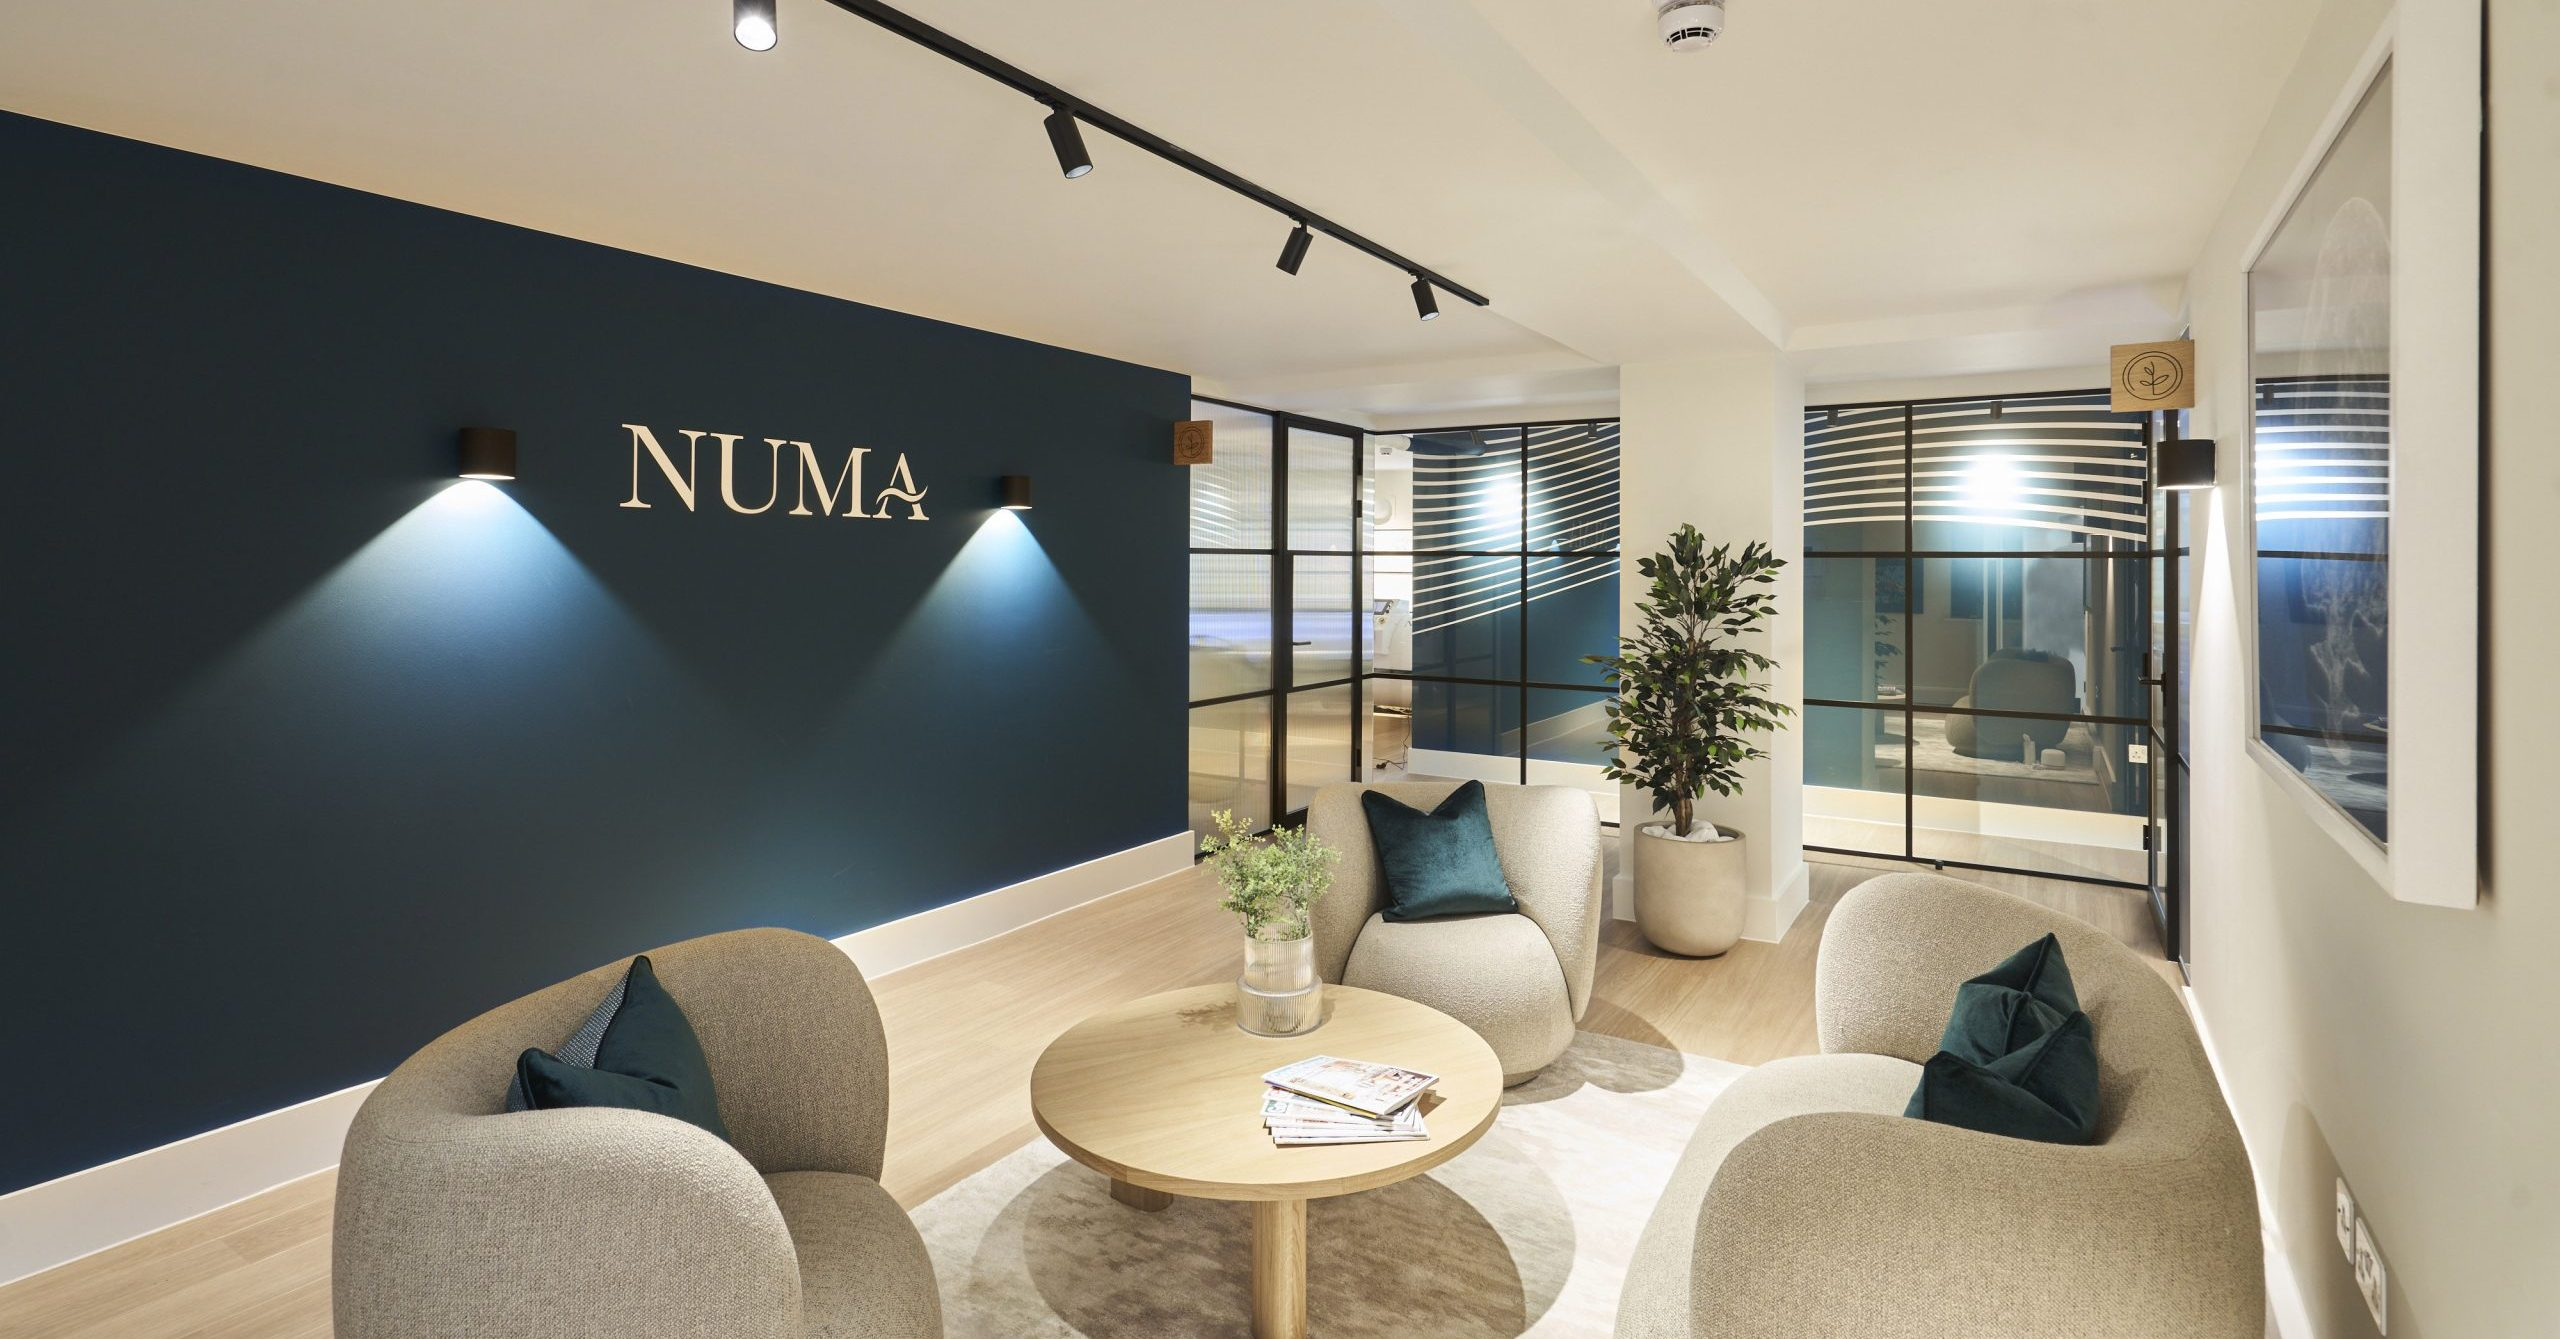
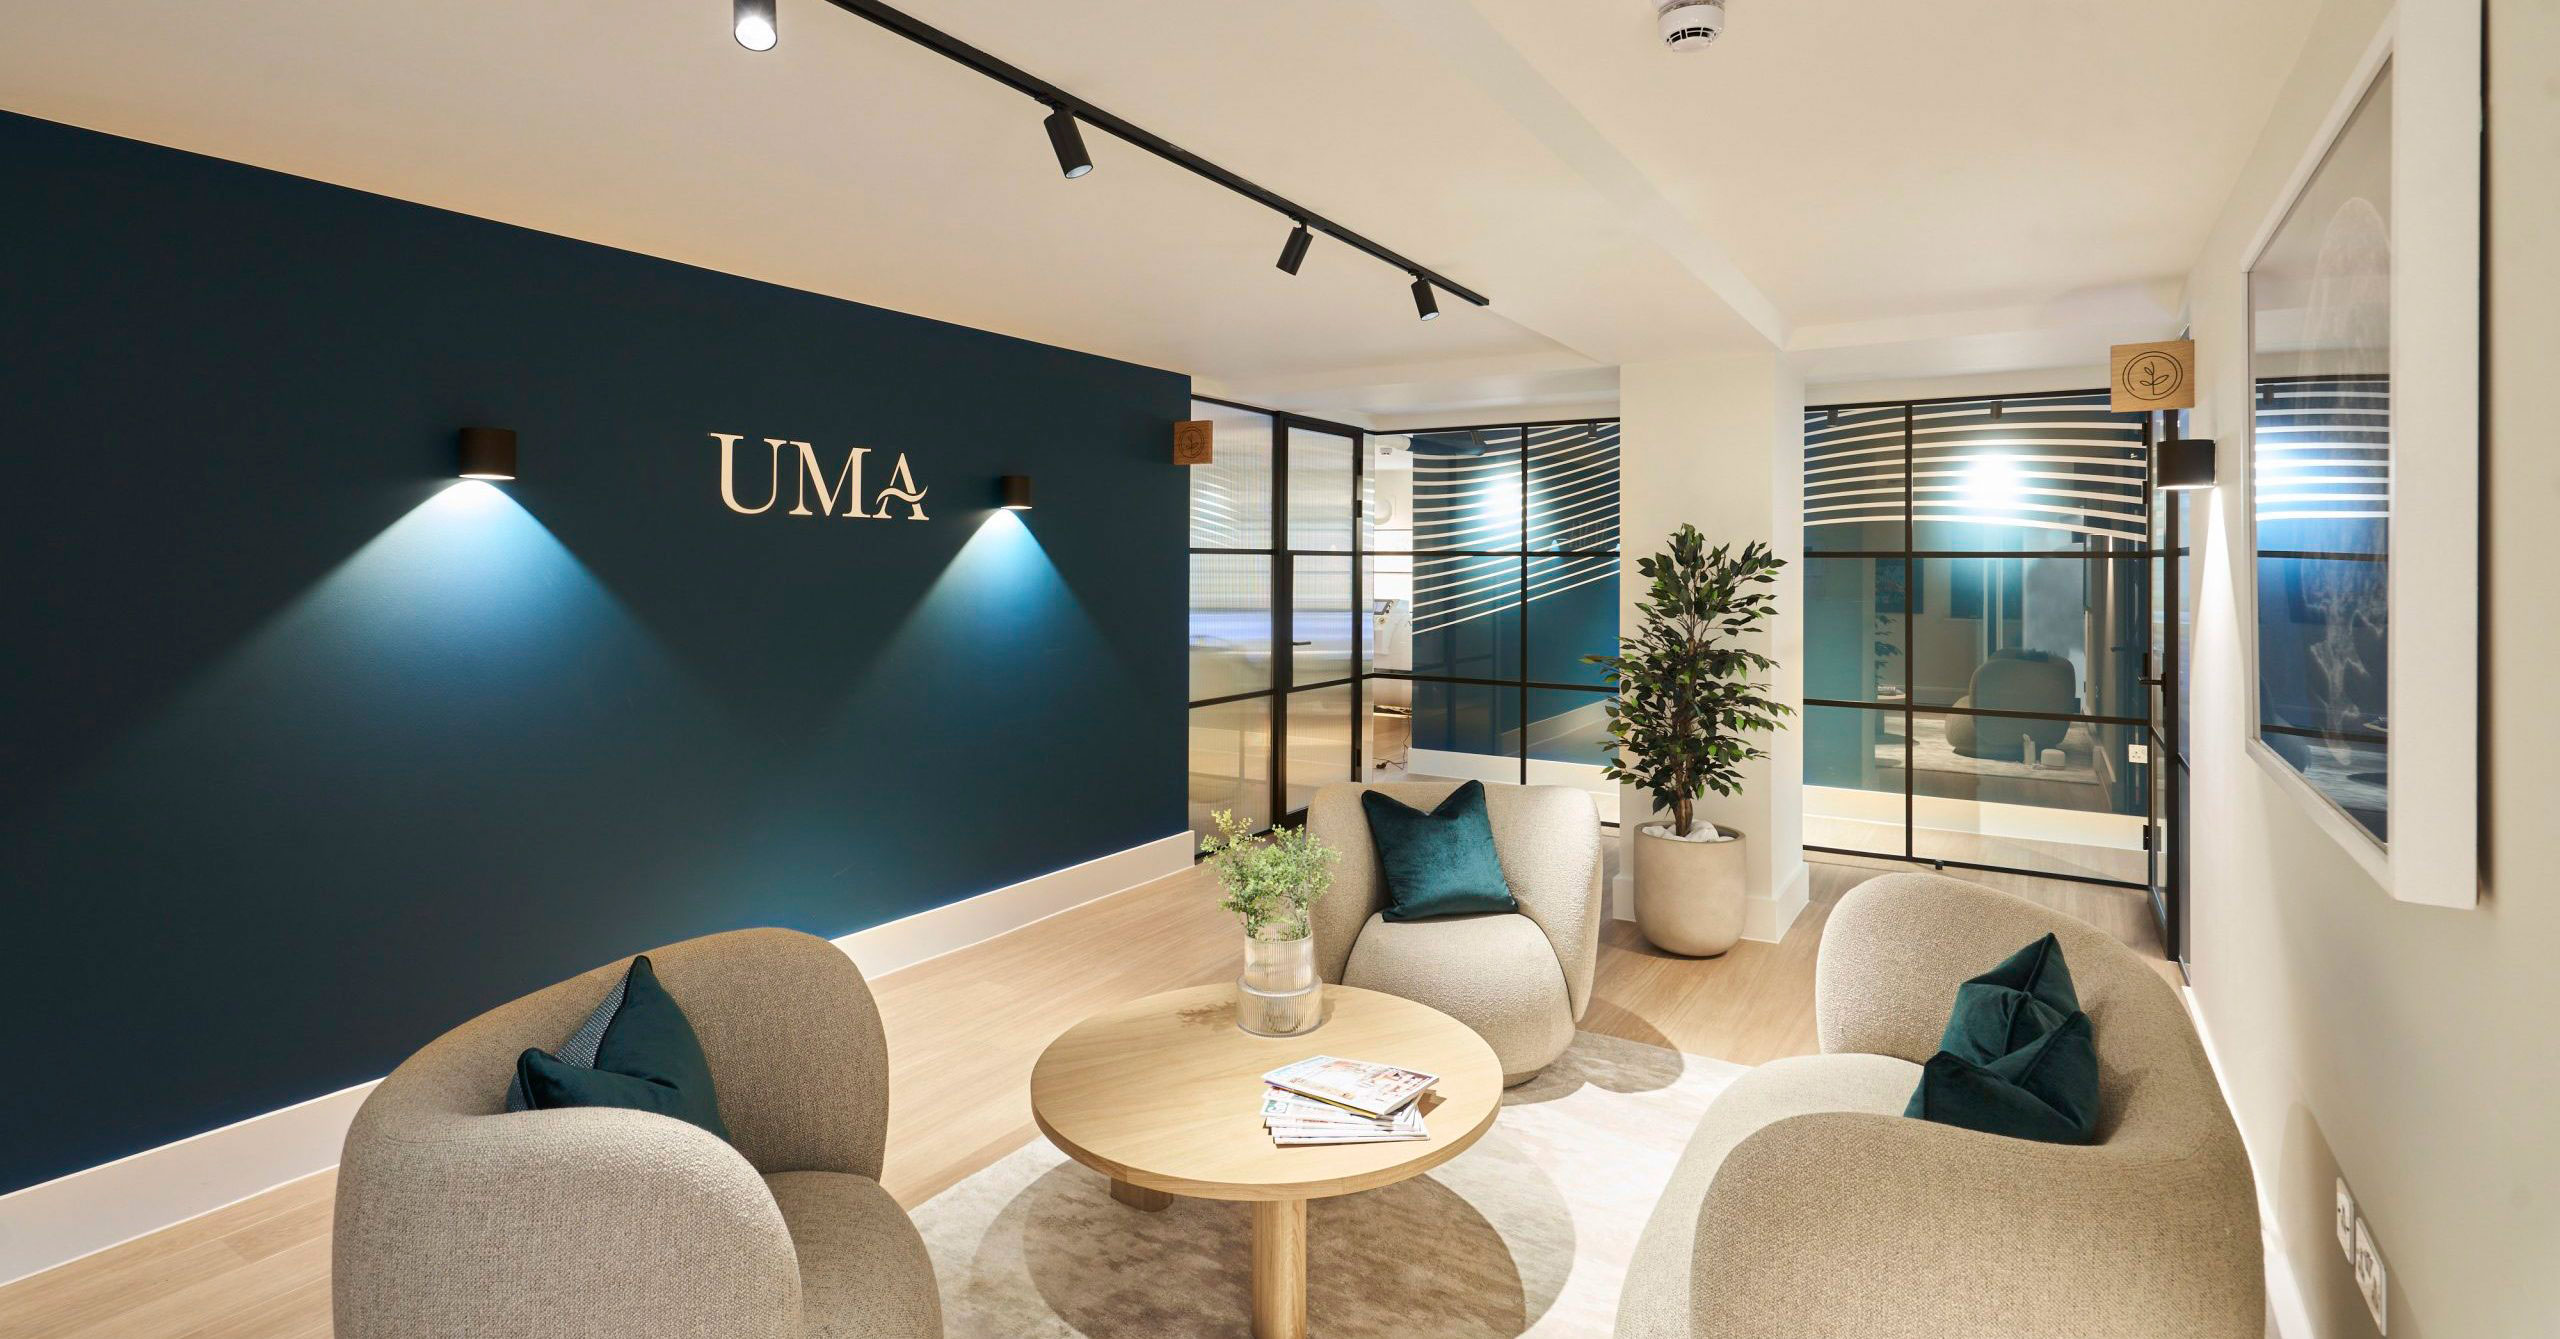
modal & Numa => Uma

diff --git a/src/data/data.ts b/src/data/data.ts
@@ -363,10 +363,11 @@ export const mockData = {
 				className: "bg-fontColor",
 				cards: [
 					{
-						className: "*:text-white",
+						className: "*:text-white !grow-2",
 						textHtml: `<div><blockquote>At UMA, we provide Hyperbaric Oxygen Therapy at the highest standards, blending integrity, honesty, and compassion into every aspect of our care. We are privileged to support your health and recovery, <strong>one breath at a time.</strong></blockquote><cite>- Dr. David Cassidy MD, Founder, UMA</cite></div>`
 					},
 					{
+						className: "grow-0",
 						textHtml: `<p>Located in the heart of London's Marylebone, UMA is a leading CQC-registered clinic specializing in Hyperbaric Oxygen Therapy. Our clinic is led by a highly qualified team using advanced hyperbaric chambers, and we take pride in offering expert-led, holistic care for each patient. Your wellbeing is our top priority.</p>`
 					}
 				]

diff --git a/tailwind.config.ts b/tailwind.config.ts
@@ -7,9 +7,13 @@ export default {
     "./src/pages/**/*.{js,ts,jsx,tsx,mdx}",
     "./src/components/**/*.{js,ts,jsx,tsx,mdx}",
     "./src/app/**/*.{js,ts,jsx,tsx,mdx}",
+    "./src/data/*.{js,ts,jsx,tsx,mdx}"
   ],
   theme: {
     extend: {
+      flexGrow: {
+        2: '2'
+      },
       colors: {
         fontColor: "var(--fontColor)",
         background: "var(--background)",

diff --git a/src/components/Footer/Footer.tsx b/src/components/Footer/Footer.tsx
@@ -6,7 +6,7 @@ import Link from "next/link";
 const TopFooter = () => <div className={styles.TopFooter}>
 
 	<div>
-		<h6 className="num-subscribe__title">Subscribe for NUMA’s updates</h6>
+		<h6 className="num-subscribe__title">Subscribe for UMA’s updates</h6>
 		<p className="num-subscribe__text">Stay on top of the latest blog posts, news and announcements</p>
 	</div>
 
